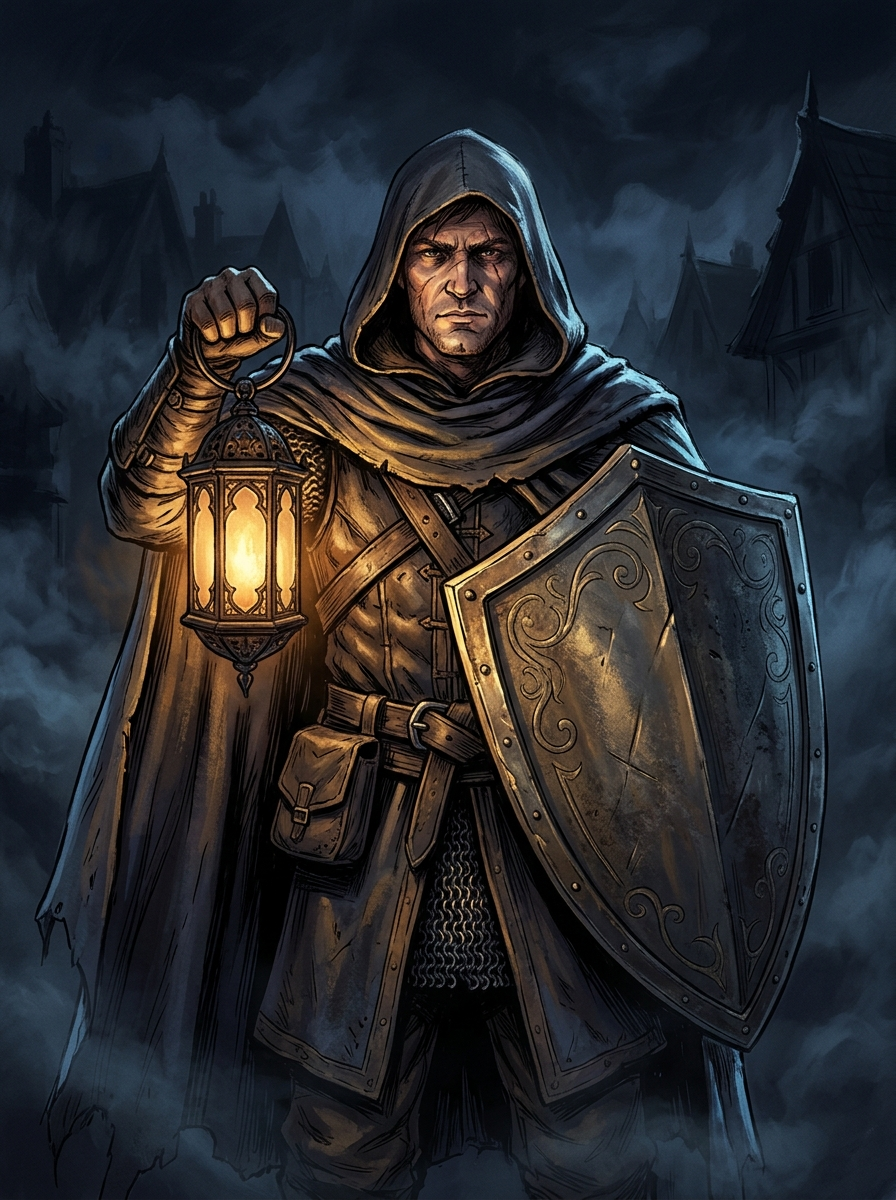
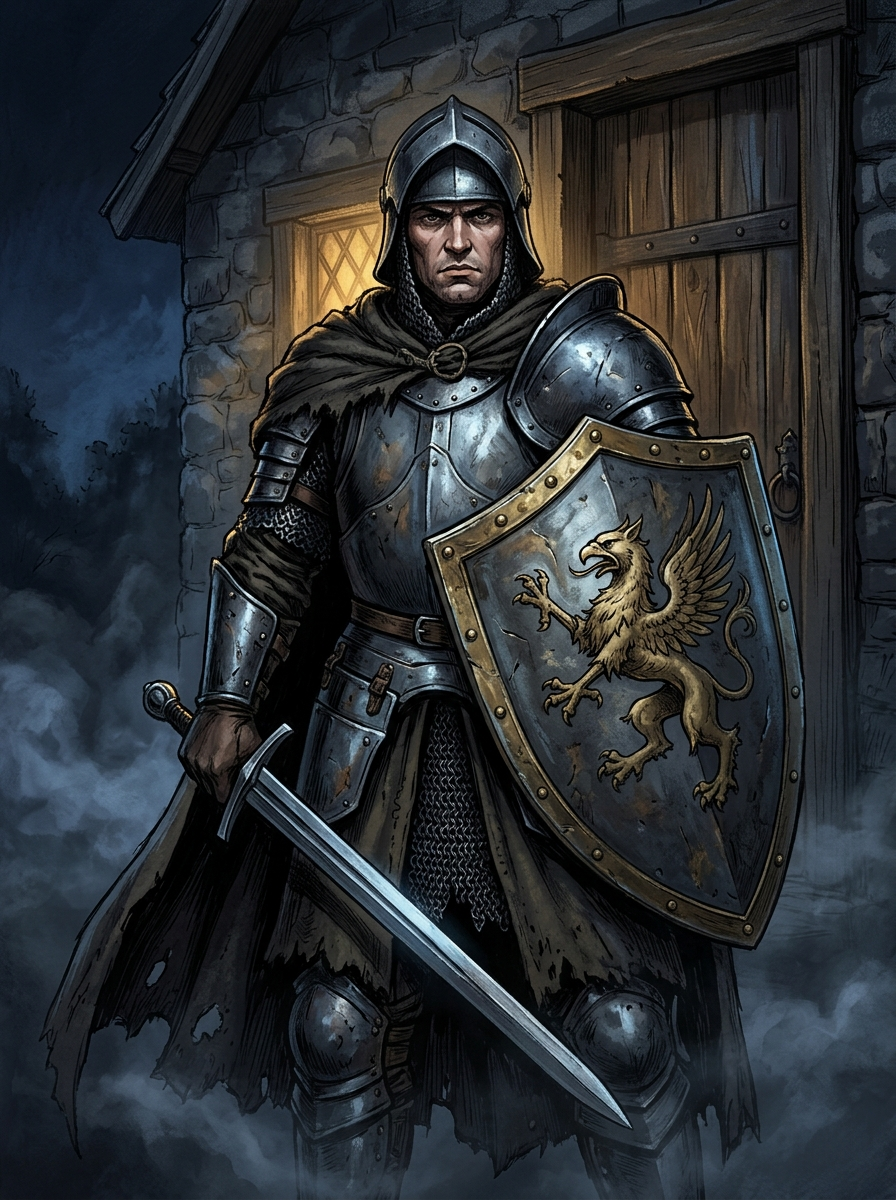
Update role names, Bodyguard artwork, narrator cues, and Ultimate Werewolf balance score

diff --git a/src/lib/roleIcons.jsx b/src/lib/roleIcons.jsx
@@ -29,49 +29,55 @@ export const ROLE_ORDER = ['werewolf', 'seer', 'doctor', 'witch', 'hunter', 'vil
 export const FALLBACK_ROLES = {
   werewolf: {
     id: 'werewolf',
-    nameTh: 'หมาป่า',
+    nameTh: 'มนุษย์หมาป่า',
     nameEn: 'Werewolf',
     team: 'werewolf',
+    points: -6,
     color: '#C83232',
-    description: 'ทุกคืนร่วมกับฝูงหมาป่าเลือกเหยื่อ 1 คนเพื่อกำจัด และแฝงตัวในหมู่บ้านตอนกลางวัน',
+    description: 'ทุกคืนร่วมกับฝูงมนุษย์หมาป่าเลือกเหยื่อ 1 คนเพื่อกำจัด และแฝงตัวในหมู่บ้านตอนกลางวัน',
   },
   villager: {
     id: 'villager',
     nameTh: 'ชาวบ้าน',
     nameEn: 'Villager',
     team: 'village',
+    points: 1,
     color: '#A5A095',
-    description: 'ไม่มีพลังพิเศษตอนกลางคืน ใช้การสังเกต คำพูด และตรรกะเพื่อจับผิดหมาป่าตอนกลางวัน',
+    description: 'ไม่มีพลังพิเศษตอนกลางคืน ใช้การสังเกต คำพูด และตรรกะเพื่อจับผิดมนุษย์หมาป่าตอนกลางวัน',
   },
   seer: {
     id: 'seer',
     nameTh: 'เทพพยากรณ์',
     nameEn: 'Seer',
     team: 'village',
+    points: 7,
     color: '#A87CE8',
-    description: 'ทุกคืนเลือกส่องผู้เล่น 1 คน เพื่อรู้ความจริงว่าเป็นฝ่ายหมาป่าหรือฝ่ายชาวบ้าน',
+    description: 'ทุกคืนเลือกตรวจสอบผู้เล่น 1 คน เพื่อรู้ความจริงว่าเป็นฝ่ายมนุษย์หมาป่าหรือฝ่ายชาวบ้าน',
   },
   doctor: {
     id: 'doctor',
-    nameTh: 'หมอ / บอดี้การ์ด',
-    nameEn: 'Doctor',
+    nameTh: 'บอดี้การ์ด',
+    nameEn: 'Bodyguard',
     team: 'village',
+    points: 3,
     color: '#4DA6D6',
-    description: 'ทุกคืนเลือกปกป้องผู้เล่น 1 คนจากการโจมตีของหมาป่า (ห้ามปกป้องคนเดิม 2 คืนติดกัน)',
+    description: 'ทุกคืนเลือกปกป้องผู้เล่น 1 คนจากการโจมตีของมนุษย์หมาป่า (ห้ามปกป้องคนเดิม 2 คืนติดกัน)',
   },
   witch: {
     id: 'witch',
     nameTh: 'แม่มด',
     nameEn: 'Witch',
     team: 'village',
+    points: 4,
     color: '#2E9E72',
-    description: 'มียาชุบชีวิต 1 ขวด (ช่วยเหยื่อหมาป่า) และยาพิษ 1 ขวด (กำจัดผู้เล่น 1 คน) ใช้ได้ขวดละครั้งต่อเกม',
+    description: 'มียาชุบชีวิต 1 ขวด (ช่วยเหยื่อมนุษย์หมาป่า) และยาพิษ 1 ขวด (กำจัดผู้เล่น 1 คน) ใช้ได้ขวดละครั้งต่อเกม',
   },
   hunter: {
     id: 'hunter',
-    nameTh: 'นักล่า',
+    nameTh: 'นายพราน',
     nameEn: 'Hunter',
     team: 'village',
+    points: 3,
     color: '#D6A354',
     description: 'หากถูกกำจัดไม่ว่ากลางวันหรือกลางคืน สามารถเลือกยิงผู้เล่น 1 คนให้ตายตามไปได้ทันที',
   },

diff --git a/src/components/GameView.jsx b/src/components/GameView.jsx
@@ -57,7 +57,7 @@ function getPhaseInfo(room) {
     case 'day_vote':
       return { Icon: Scale, title: `กลางวันวันที่ ${day} — โหวตประหาร`, sub: 'เลือกผู้ต้องสงสัยและกดยืนยันคะแนน' };
     case 'hunter_revenge':
-      return { Icon: Crosshair, title: 'นักล่าเล็งปืนนัดสุดท้าย', sub: 'นักล่ากำลังเลือกผู้เล่นที่จะยิงตามไป' };
+      return { Icon: Crosshair, title: 'นายพรานเล็งปืนนัดสุดท้าย', sub: 'นายพรานกำลังเลือกผู้เล่นที่จะยิงตามไป' };
     case 'game_over':
       return {
         Icon: room.winner === 'village' ? Trophy : Flame,
@@ -379,7 +379,7 @@ export function GameView({
             <span>
               {t
                 ? `คืนนี้คุณปกป้อง #${padSeat(t.seatNumber)} ${t.name}`
-                : 'หมอตื่นขึ้น — เลือกปกป้องผู้เล่น 1 คน (ห้ามซ้ำคนเดิมจากคืนก่อน)'}
+                : 'บอดี้การ์ดตื่นขึ้น — เลือกปกป้องผู้เล่น 1 คน (ห้ามซ้ำคนเดิมจากคืนก่อน)'}
             </span>
           </div>
         );
@@ -552,8 +552,8 @@ export function GameView({
           <Crosshair size={18} color="var(--crimson)" />
           <span>
             {room.activeHunterId === me.id
-              ? 'คุณคือนักล่าที่เพิ่งเสียชีวิต แตะเลือกผู้เล่น 1 คนเพื่อยิงตามไปทันที'
-              : `นักล่า "${hunter?.name || ''}" กำลังเล็งปืนนัดสุดท้าย...`}
+              ? 'คุณคือนายพรานที่เพิ่งเสียชีวิต แตะเลือกผู้เล่น 1 คนเพื่อยิงตามไปทันที'
+              : `นายพราน "${hunter?.name || ''}" กำลังเล็งปืนนัดสุดท้าย...`}
           </span>
         </div>
       );

diff --git a/src/components/LobbyView.jsx b/src/components/LobbyView.jsx
@@ -73,6 +73,16 @@ export function LobbyView({
   const catalog = room.rolesCatalog || FALLBACK_ROLES;
   const roleConfig = room.settings.roleConfig || {};
   const inviteUrl = `${window.location.origin}/?room=${room.code}`;
+  const balanceScore = ROLE_ORDER.reduce((sum, id) => {
+    const pts = catalog[id]?.points ?? FALLBACK_ROLES[id]?.points ?? 0;
+    return sum + pts * (roleConfig[id] || 0);
+  }, 0);
+  const balanceLabel =
+    Math.abs(balanceScore) <= 2
+      ? 'สมดุล'
+      : balanceScore > 2
+      ? 'ได้เปรียบฝั่งชาวบ้าน'
+      : 'ได้เปรียบฝั่งหมาป่า';
 
   return (
     <section className="lobby-shell">
@@ -252,6 +262,12 @@ export function LobbyView({
               <SlidersHorizontal size={18} strokeWidth={1.75} />
               จัดชุดบทบาทและเวลา
             </h2>
+            <span
+              className={`tag-pill tabular ${Math.abs(balanceScore) <= 2 ? 'sage' : balanceScore > 2 ? 'brass' : 'crimson'}`}
+              title="ระบบแต้มสมดุล Ultimate Werewolf (ใกล้ 0 = สมดุล)"
+            >
+              แต้มสมดุล {balanceScore > 0 ? `+${balanceScore}` : balanceScore} ({balanceLabel})
+            </span>
           </div>
 
           <label className="checkbox-row">
@@ -277,7 +293,9 @@ export function LobbyView({
                     </span>
                     <span>
                       {r.nameTh}{' '}
-                      <span className="subtle" style={{ fontSize: '0.8rem' }}>({r.nameEn})</span>
+                      <span className="subtle" style={{ fontSize: '0.8rem' }}>
+                        ({r.nameEn} {r.points > 0 ? `+${r.points}` : r.points})
+                      </span>
                     </span>
                   </div>
                   <div className="stepper">

diff --git a/src/lib/feedback.js b/src/lib/feedback.js
@@ -136,17 +136,17 @@ export function speakThai(text, { interrupt = true, muted = false } = {}) {
 export const NARRATOR_SCRIPTS = {
   test: 'ระบบเสียงบรรยายกลางพร้อมทำงานแล้วครับ',
   night_start: 'เข้าสู่ช่วงกลางคืน ทุกคนหยุดพูดและหลับตา',
-  werewolf: 'หมาป่าตื่นขึ้น เลือกเหยื่อในคืนนี้',
+  werewolf: 'มนุษย์หมาป่าตื่นขึ้น เลือกเหยื่อในคืนนี้',
   seer: 'เทพพยากรณ์ตื่นขึ้น เลือกตรวจสอบผู้เล่นหนึ่งคน',
-  doctor: 'หมอตื่นขึ้น เลือกปกป้องผู้เล่นหนึ่งคน',
+  doctor: 'บอดี้การ์ดตื่นขึ้น เลือกปกป้องผู้เล่นหนึ่งคน',
   witch: 'แม่มดตื่นขึ้น ตัดสินใจเรื่องยาชุบชีวิตและยาพิษ',
   dawn: 'เช้าแล้ว ทุกคนลืมตาขึ้น',
   day_vote: 'หมดเวลาปรึกษา เตรียมลงคะแนนโหวตผ่านโทรศัพท์',
 };
 
 export const NARRATOR_SLEEP = {
-  werewolf: 'หมาป่าหลับตา',
+  werewolf: 'มนุษย์หมาป่าหลับตา',
   seer: 'เทพพยากรณ์หลับตา',
-  doctor: 'หมอหลับตา',
+  doctor: 'บอดี้การ์ดหลับตา',
   witch: 'แม่มดหลับตา',
 };
